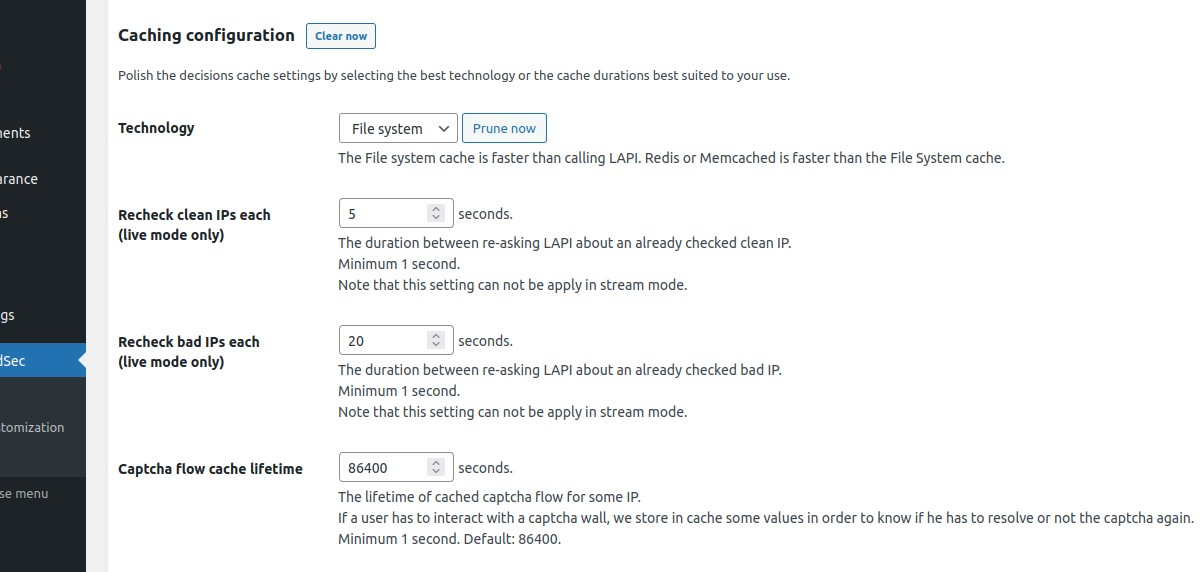
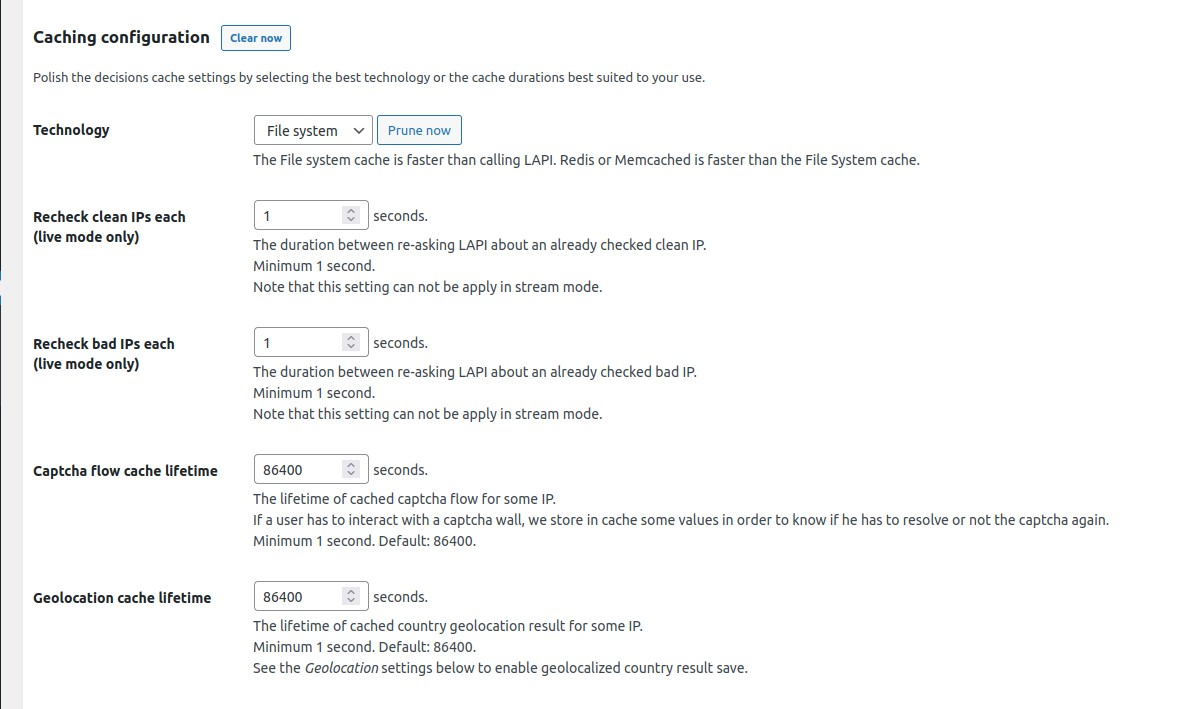
feat(geolcation): Update docs and modify admin test part

Changed region(s): [[0.0, 0.0, 1.0, 1.0]]

diff --git a/inc/admin/advanced-settings.php b/inc/admin/advanced-settings.php
@@ -197,7 +197,8 @@ function adminAdvancedSettings()
     }, ' seconds. <p>The lifetime of cached captcha flow for some IP. <br>If a user has to interact with a captcha wall, we store in cache some values in order to know if he has to resolve or not the captcha again.<br>Minimum 1 second. Default: '.Constants::CACHE_EXPIRATION_FOR_CAPTCHA.'.', Constants::CACHE_EXPIRATION_FOR_CAPTCHA, 'width: 115px;', 'number');
 
     // Field "crowdsec_geolocation_cache_duration"
-    addFieldString('crowdsec_geolocation_cache_duration', 'Geolocation cache duration', 'crowdsec_plugin_advanced_settings', 'crowdsec_advanced_settings', 'crowdsec_admin_advanced_cache', function ($input) {
+    addFieldString('crowdsec_geolocation_cache_duration', 'Geolocation cache lifetime', 'crowdsec_plugin_advanced_settings',
+        'crowdsec_advanced_settings', 'crowdsec_admin_advanced_cache', function ($input) {
         if ( (int) $input <= 0) {
             add_settings_error('Geolocation cache duration', 'crowdsec_error', 'Geolocation cache duration: Minimum is 1 second.');
 
@@ -205,7 +206,8 @@ function adminAdvancedSettings()
         }
 
         return (int) $input > 0 ? (int) $input : Constants::CACHE_EXPIRATION_FOR_CAPTCHA ;
-    }, ' seconds. <p>The lifetime of cached country geolocation result for some IP.<br>Minimum 1 second. Default: '.Constants::CACHE_EXPIRATION_FOR_GEO.'.', Constants::CACHE_EXPIRATION_FOR_GEO, 'width: 115px;', 'number');
+    }, ' seconds. <p>The lifetime of cached country geolocation result for some IP.<br>Minimum 1 second. Default: '
+       .Constants::CACHE_EXPIRATION_FOR_GEO.'.<br>See the <i>Geolocation</i> settings below to enable geolocalized country result save.', Constants::CACHE_EXPIRATION_FOR_GEO, 'width: 115px;', 'number');
 
 
     /***************************
@@ -327,7 +329,7 @@ function adminAdvancedSettings()
 
     addFieldCheckbox('crowdsec_geolocation_save_result', 'Save geolocalized country in cache', 'crowdsec_plugin_advanced_settings',
         'crowdsec_advanced_settings', 'crowdsec_admin_advanced_geolocation', function () {}, function () {}, '
-    <p>Enabling this will avoid multiple call to the geolocation system (e.g. MaxMind database)</p> If enabled, the geolocalized country associated to the IP will be saved in cache.<br>See the <i>Geolocation cache duration</i> setting above to set the lifetime of this result.');
+    <p>Enabling this will avoid multiple call to the geolocation system (e.g. MaxMind database)</p> If enabled, the geolocalized country associated to the IP will be saved in cache.<br>See the <i>Geolocation cache lifetime</i> setting above to set the lifetime of this result.');
 
 
     /*******************************
@@ -368,7 +370,7 @@ function adminAdvancedSettings()
     }, '<p>This Ip will be used instead of the current detected browser IP: '.$_SERVER['REMOTE_ADDR'].'.<br><strong>Must be empty in production.</strong></p>',
     '1.2.3.4', '');
 
-    addFieldString('crowdsec_forced_test_forwarded_ip', 'Forced test X-Forwrded-For IP', 'crowdsec_plugin_advanced_settings', 'crowdsec_advanced_settings', 'crowdsec_admin_advanced_test', function ($input) {
+    addFieldString('crowdsec_forced_test_forwarded_ip', 'Forced test X-Forwarded-For IP', 'crowdsec_plugin_advanced_settings', 'crowdsec_advanced_settings', 'crowdsec_admin_advanced_test', function ($input) {
         return $input;
     }, '<p>This Ip will be used instead of the current X-Forwarded-For Ip if any.<br><strong>Must be empty in production.</strong></p>',
         '1.2.3.4', '');

diff --git a/inc/admin/init.php b/inc/admin/init.php
@@ -128,6 +128,9 @@ if (is_admin()) {
     function testGeolocationInAdminPage($ip)
     {
         try {
+            if (!get_option('crowdsec_geolocation_maxmind_database_path')) {
+                throw new BouncerException("Maxmind database path can not be empty");
+            }
             $settings = getDatabaseSettings();
             $bouncer = getBouncerInstance($settings);
             $geolocationConfig =  $settings['geolocation'];

diff --git a/docs/USER_GUIDE.md b/docs/USER_GUIDE.md
@@ -65,7 +65,8 @@ These configurations are divided in three main parts : `CrowdSec`, `Theme custom
 
 #### General settings
 
-In the `CrowdSec` part, you will set your connection details and refine bouncing according to your needs.
+In the `CrowdSec` part, you will set your connection details and refine bouncing according to your needs. You will 
+also be able to test your settings.
 
 ![Connection details](images/screenshots/config-connection.jpg)
 
@@ -98,7 +99,9 @@ If enabled, the admin is not bounced.
 
 ***
 
-`Test your settings`
+![Setting tests](images/screenshots/config-test-your-settings.jpg)
+
+`Test your settings → Test bouncing`
 
 Click the "Test bouncing" button and the configured bouncer will try to get the remediation (bypass, captcha or ban) 
 for 
@@ -108,6 +111,13 @@ This test allows you to know if your connection, bouncing and cache settings are
 
 
 ***
+
+`Test your settings → Test geolocation`
+
+Click the "Test geolocation" button to try getting country for the IP entered in the text field.
+
+This test allows you to know if your geolocation settings are correct.
+
 
 
 #### Theme customization
@@ -124,7 +134,7 @@ In the `Theme customization` part, you can modify texts and colors of ban and ca
 #### Advanced settings
 
 In the `Advanced` part, you can enable/disable the stream mode, choose your cache system for your CrowdSec
-LAPI, handle your remediation policy and adjust some debug and log parameters.
+LAPI, handle your remediation policy, manage geolocation feature, adjust some debug parameters and testing parameters. 
 
 ![Communication mode](images/screenshots/config-communication-mode.jpg)
 
@@ -192,6 +202,14 @@ we store in cache some values in order to know if he has to resolve or not the c
 
 Minimum 1 second. Default: 86400 seconds.
 
+***
+
+`Caching configuration → Geolocation cache lifetime`
+
+The lifetime of cached country geolocation result for some IP.
+
+Minimum 1 second. Default: 86400 seconds.
+
 
 ***
 
@@ -215,6 +233,50 @@ If you use a CDN, a reverse proxy or a load balancer, it is possible to indicate
 
 Enable if you want to hide CrowdSec mentions on the Ban and Captcha walls.
 
+
+***
+
+![Geolocation](images/screenshots/config-geolocation.jpg)
+
+***
+
+`Geolocation → Enable geolocation feature`
+
+Enable if you want to use also CrowdSec country scoped decisions.
+If enabled, bounced IP will be geolocalized and the final remediation will take into account any country related decision.
+
+***
+
+`Geolocation → Geolocation type`
+
+
+For now, only `Maxmind database` type is allowed
+
+***
+
+`Geolocation → MaxMind database type`
+
+Choose between `Country` and `City`.
+
+
+***
+
+`Geolocation → Path to the MaxMind database`
+
+Relative path from `wp-content/plugins/cs-wordpress-bouncer/geolocation` folder.
+
+***
+
+`Geolocation → Save geolocalized country in cache`
+
+Enabling this will avoid multiple call to the geolocation system (e.g. MaxMind database)
+If enabled, the geolocalized country associated to the IP will be saved in cache.
+See the `Geolocation cache lifetime` setting above to set the lifetime of this result.
+
+***
+
+
+
 ![Debug](images/screenshots/config-debug.jpg)
 
 ***
@@ -233,6 +295,27 @@ Note that by default, there is always a `prod.log` file in the same folder.
 
 When this mode is enabled, you will see every unexpected bouncing errors in the browser.
 Should be disabled in production.
+
+
+***
+
+![Test](images/screenshots/config-test.jpg)
+
+***
+
+
+`Test settings → Forced test IP`
+
+This Ip will be used instead of the current detected browser IP.
+**Must be empty in production.**
+
+***
+
+`Test settings → Forced test X-Forwarded-For IP`
+
+This Ip will be used instead of the current X-Forwarded-For Ip if any.
+**Must be empty in production.**
+
 
 
 ### Auto Prepend File mode
